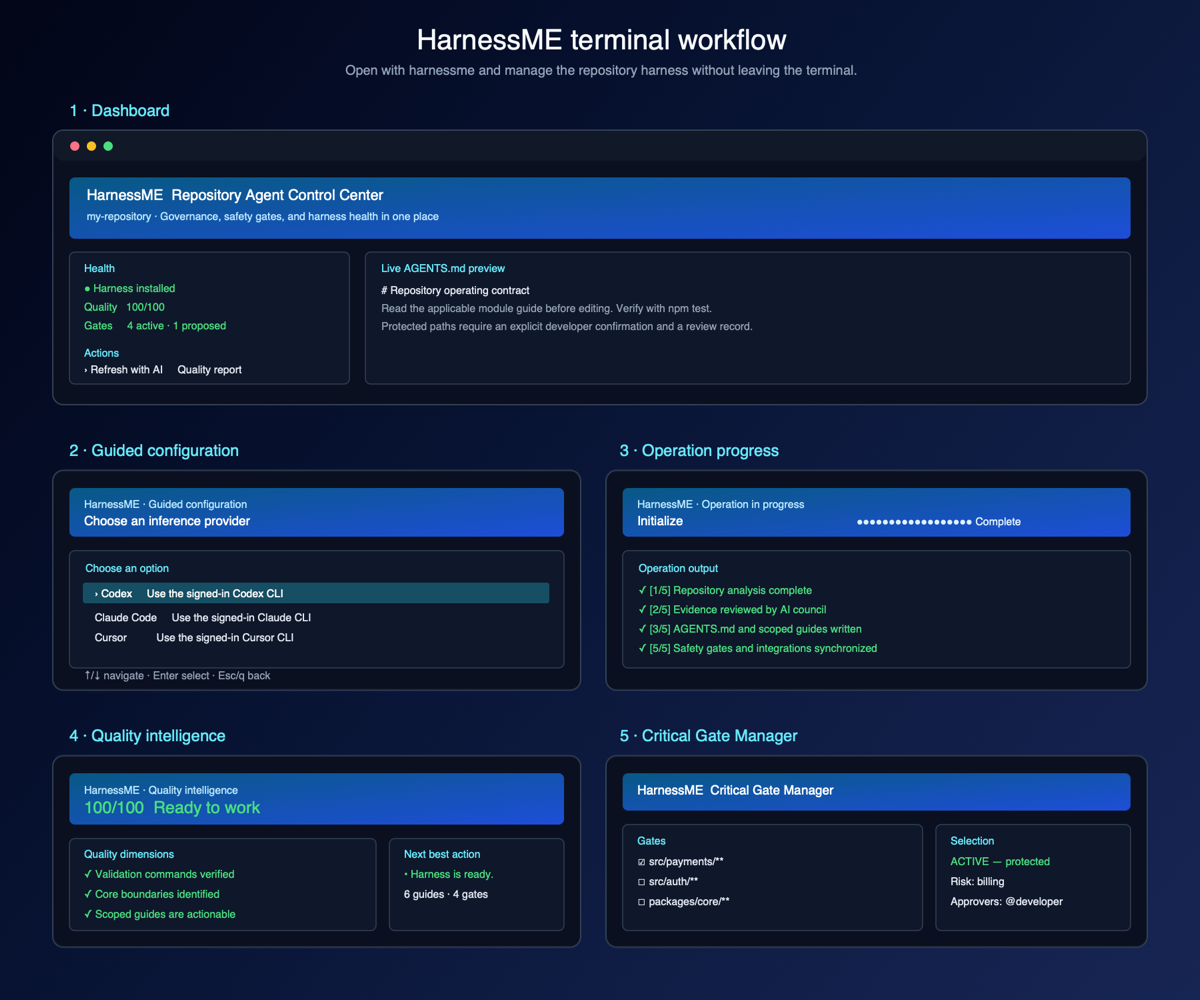
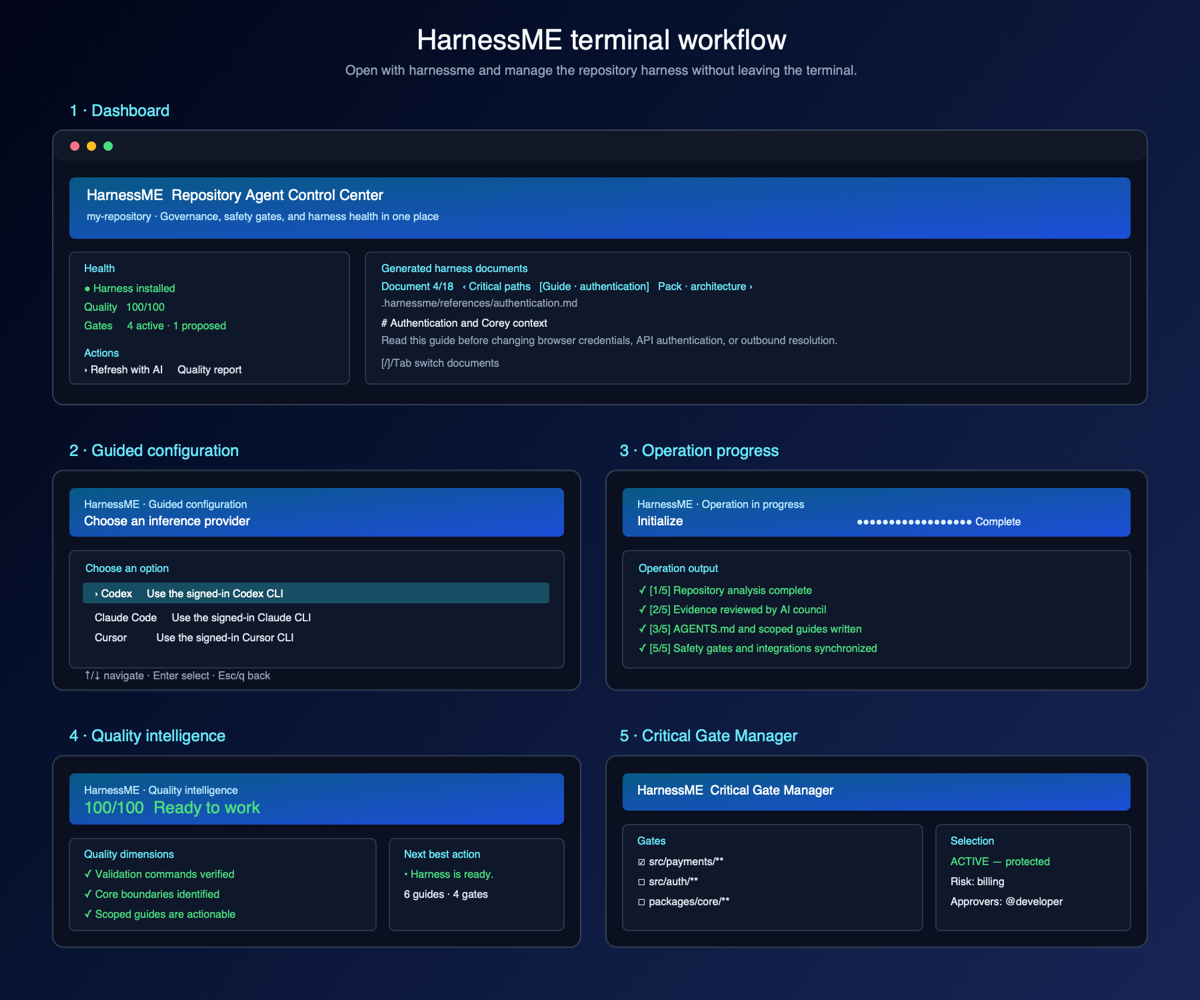
feat: browse generated harness documents

Changed region(s): [[0.3083, 0.248, 0.6475, 0.372]]

diff --git a/packages/cli/src/dashboard/state.ts b/packages/cli/src/dashboard/state.ts
@@ -1,5 +1,14 @@
-import { join } from "node:path";
+import { readdir } from "node:fs/promises";
+import { join, relative } from "node:path";
 import { exists, harnessDir, readFacts, readText } from "@harnessme/core";
+
+const GENERATED_MARKER = "<!-- Generated by HarnessME";
+
+export interface DashboardDocument {
+  label: string;
+  path: string;
+  content: string[];
+}
 
 export interface DashboardState {
   initialized: boolean;
@@ -12,7 +21,31 @@ export interface DashboardState {
   activeGates: number;
   proposedGates: number;
   references: number;
-  preview: string[];
+  documents: DashboardDocument[];
+}
+
+function previewLines(markdown: string): string[] {
+  return markdown
+    .split(/\r?\n/u)
+    .filter((line) => !line.startsWith(GENERATED_MARKER))
+    .slice(0, 120);
+}
+
+async function addDocument(documents: DashboardDocument[], root: string, label: string, path: string): Promise<void> {
+  const absolutePath = join(root, path);
+  if (!await exists(absolutePath)) return;
+  documents.push({ label, path, content: previewLines(await readText(absolutePath)) });
+}
+
+async function generatedNestedAgents(root: string, directory = root): Promise<string[]> {
+  const documents: string[] = [];
+  for (const entry of await readdir(directory, { withFileTypes: true })) {
+    if (entry.isSymbolicLink() || [".git", ".harnessme", ".ruler", "node_modules"].includes(entry.name)) continue;
+    const path = join(directory, entry.name);
+    if (entry.isDirectory()) documents.push(...await generatedNestedAgents(root, path));
+    else if (entry.name === "AGENTS.md" && directory !== root && (await readText(path)).startsWith(GENERATED_MARKER)) documents.push(relative(root, path));
+  }
+  return documents;
 }
 
 export async function loadDashboardState(root: string): Promise<DashboardState> {
@@ -28,14 +61,29 @@ export async function loadDashboardState(root: string): Promise<DashboardState> 
     activeGates: 0,
     proposedGates: 0,
     references: 0,
-    preview: ["No harness exists in this repository.", "", "Choose Initialize to analyze it."],
+    documents: [{
+      label: "Getting started",
+      path: "",
+      content: ["No harness exists in this repository.", "", "Choose Initialize to analyze it."],
+    }],
   };
   const facts = await readFacts(root);
   const inference = facts.config.analysis.aiFallback;
-  const agentsPath = join(root, "AGENTS.md");
-  const preview = await exists(agentsPath)
-    ? (await readText(agentsPath)).split(/\r?\n/u).filter((line) => !line.startsWith("<!-- Generated by HarnessME")).slice(0, 80)
-    : ["AGENTS.md has not been rendered."];
+  const documents: DashboardDocument[] = [];
+  await addDocument(documents, root, "Root AGENTS", "AGENTS.md");
+  await addDocument(documents, root, "AI authored", ".harnessme/facts/AGENTS.authored.md");
+  await addDocument(documents, root, "Critical paths", ".harnessme/CRITICAL.md");
+  for (const reference of facts.referencePack?.documents ?? []) {
+    await addDocument(documents, root, `Guide · ${reference.slug}`, `.harnessme/references/${reference.slug}.md`);
+  }
+  for (const name of ["architecture", "testing-and-validation", "critical-change-audit"]) {
+    await addDocument(documents, root, `Pack · ${name}`, `.harnessme/agent-pack/${name}.md`);
+  }
+  for (const path of await generatedNestedAgents(root)) {
+    const directory = path.slice(0, -"/AGENTS.md".length) || ".";
+    await addDocument(documents, root, `Module · ${directory}`, path);
+  }
+  if (!documents.length) documents.push({ label: "Root AGENTS", path: "AGENTS.md", content: ["AGENTS.md has not been rendered."] });
   return {
     initialized,
     repository: root,
@@ -47,6 +95,6 @@ export async function loadDashboardState(root: string): Promise<DashboardState> 
     activeGates: facts.criticalPaths.paths.filter((item) => item.status === "active").length,
     proposedGates: facts.criticalPaths.paths.filter((item) => item.status === "proposed").length,
     references: facts.referencePack?.documents.length ?? 0,
-    preview,
+    documents,
   };
 }

diff --git a/packages/cli/src/dashboard/view.ts b/packages/cli/src/dashboard/view.ts
@@ -60,7 +60,12 @@ export function buildSelectionScreen(
   return select;
 }
 
-export function buildDashboard(renderer: CliRenderer, state: DashboardState, options: SelectOption[]): SelectRenderable {
+export interface DashboardView {
+  select: SelectRenderable;
+  cycleDocument: (direction: 1 | -1) => void;
+}
+
+export function buildDashboard(renderer: CliRenderer, state: DashboardState, options: SelectOption[]): DashboardView {
   const root = new BoxRenderable(renderer, { flexDirection: "column", width: "100%", height: "100%", backgroundColor: COLORS.background });
   renderer.root.add(root);
   const header = new BoxRenderable(renderer, { height: 4, backgroundColor: COLORS.blue, paddingX: 2, flexDirection: "column" });
@@ -105,14 +110,34 @@ export function buildDashboard(renderer: CliRenderer, state: DashboardState, opt
   });
   sidebar.add(select);
 
-  const preview = new BoxRenderable(renderer, { flexGrow: 1, border: true, borderColor: COLORS.border, title: " Live AGENTS.md preview ", padding: 1, overflow: "hidden" });
+  const preview = new BoxRenderable(renderer, { flexGrow: 1, border: true, borderColor: COLORS.border, title: " Generated harness documents ", padding: 1, flexDirection: "column", overflow: "hidden" });
   body.add(preview);
-  addText(renderer, preview, state.preview.join("\n"), { width: "100%", height: "100%", fg: COLORS.text });
+  const tabs = addText(renderer, preview, "", { height: 1, fg: COLORS.accent, truncate: true });
+  const documentPath = addText(renderer, preview, "", { height: 1, fg: COLORS.muted, truncate: true });
+  const documentPreview = addText(renderer, preview, "", { width: "100%", flexGrow: 1, fg: COLORS.text, wrapMode: "word" });
+  let documentIndex = 0;
+  const renderDocument = (): void => {
+    const document = state.documents[documentIndex];
+    if (!document) return;
+    const previous = state.documents[(documentIndex - 1 + state.documents.length) % state.documents.length];
+    const next = state.documents[(documentIndex + 1) % state.documents.length];
+    tabs.content = `Document ${documentIndex + 1}/${state.documents.length}   ‹ ${previous?.label ?? ""}   [${document.label}]   ${next?.label ?? ""} ›`;
+    documentPath.content = document.path || "Select Initialize to create the generated document set.";
+    documentPreview.content = document.content.join("\n");
+    renderer.requestRender();
+  };
+  renderDocument();
   const footer = new BoxRenderable(renderer, { height: 1, paddingX: 2 });
   root.add(footer);
-  addText(renderer, footer, "↑/↓ navigate   Enter select   Esc/q exit   ·   Quality report opens an actionable health view", { height: 1, fg: COLORS.muted, truncate: true });
+  addText(renderer, footer, "↑/↓ navigate   Enter select   [/]/Tab switch documents   Esc/q exit", { height: 1, fg: COLORS.muted, truncate: true });
   select.focus();
-  return select;
+  return {
+    select,
+    cycleDocument(direction: 1 | -1): void {
+      documentIndex = (documentIndex + direction + state.documents.length) % state.documents.length;
+      renderDocument();
+    },
+  };
 }
 
 export function buildQualityReportScreen(renderer: CliRenderer, report: QualityReport): void {

diff --git a/packages/cli/src/dashboard/index.ts b/packages/cli/src/dashboard/index.ts
@@ -148,7 +148,7 @@ async function confirmRemoval(): Promise<boolean> {
 async function dashboardSelection(root: string, actions: Action[]): Promise<Action | undefined> {
   const renderer: CliRenderer = await createCliRenderer({ exitOnCtrlC: false, clearOnShutdown: true });
   const state = await loadDashboardState(root);
-  const select = buildDashboard(renderer, state, actions.map((action, index) => ({
+  const dashboard = buildDashboard(renderer, state, actions.map((action, index) => ({
     name: action.label,
     description: action.description,
     value: index,
@@ -161,9 +161,11 @@ async function dashboardSelection(root: string, actions: Action[]): Promise<Acti
       renderer.destroy();
       resolve(action);
     };
-    select.on(SelectRenderableEvents.ITEM_SELECTED, (_index, option: SelectOption) => finish(actions[Number(option.value)]));
+    dashboard.select.on(SelectRenderableEvents.ITEM_SELECTED, (_index, option: SelectOption) => finish(actions[Number(option.value)]));
     renderer.keyInput.on("keypress", (key) => {
       if (key.name === "escape" || key.name === "q" || (key.ctrl && key.name === "c")) finish();
+      else if (key.name === "[" || key.name === "left") dashboard.cycleDocument(-1);
+      else if (key.name === "]" || key.name === "right" || key.name === "tab") dashboard.cycleDocument(1);
     });
   });
 }

diff --git a/README.md b/README.md
@@ -29,7 +29,7 @@ harnessme
 <p align="center">
   <img src="assets/dashboard-overview.png" alt="HarnessME dashboard walkthrough showing all five full-screen views" width="900">
   <br>
-  <em>The dashboard: repository control, guided configuration, live operation progress, quality intelligence, and critical-gate management.</em>
+  <em>The dashboard: repository control with generated-document tabs, guided configuration, live operation progress, quality intelligence, and critical-gate management.</em>
 </p>
 
 ## Use
@@ -38,7 +38,7 @@ harnessme
 
 Run `harnessme` from a repository root at any time. The dashboard is the default interface and keeps the whole lifecycle in one place:
 
-1. **Dashboard** — inspect harness health, provider/model settings, safety-gate counts, and a live `AGENTS.md` preview.
+1. **Dashboard** — inspect harness health, provider/model settings, safety-gate counts, and every generated harness document. Use `[` / `]` or Tab to switch the root contract, scoped guides, agent pack, critical policy, and nested module contracts.
 2. **Guided configuration** — choose a provider, model, Codex thinking level, review depth, and optional context without remembering flags.
 3. **Operation progress** — follow analysis, AI review, authored guidance, and integration steps in real time.
 4. **Quality intelligence** — see each quality dimension, documentation conflicts, and the next best action.
